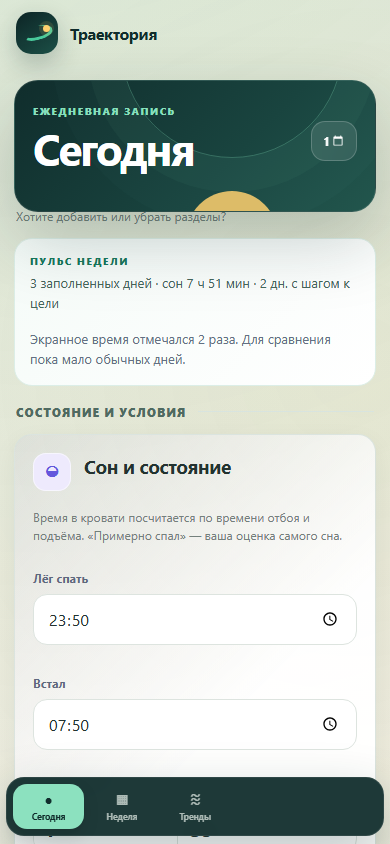
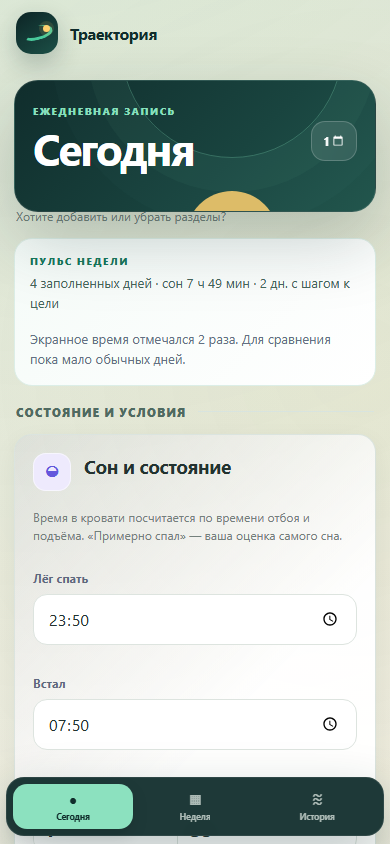
Improve public showcase and visual checks

diff --git a/e2e/showcase.e2e.ts b/e2e/showcase.e2e.ts
@@ -24,6 +24,14 @@ test('bootstraps the synthetic Today state and captures the mobile screen', asyn
   await expect(page.getByRole('heading', { name: 'Сегодня', level: 1 })).toBeVisible();
   await expect(page.getByText('Первый час без уведомлений')).toBeVisible();
   await expect(page.getByRole('button', { name: 'Сбросить демо-данные' })).toBeVisible();
+  const navigation = page.locator('.bottom-nav');
+  const lastNavigationItem = navigation.locator('.bottom-nav__item').last();
+  await expect(navigation.locator('.bottom-nav__item')).toHaveCount(3);
+  const navigationBox = await navigation.boundingBox();
+  const lastNavigationItemBox = await lastNavigationItem.boundingBox();
+  expect(navigationBox).not.toBeNull();
+  expect(lastNavigationItemBox).not.toBeNull();
+  expect(navigationBox!.x + navigationBox!.width - (lastNavigationItemBox!.x + lastNavigationItemBox!.width)).toBeLessThanOrEqual(8);
   await settleScreenshot(page);
   await page.locator('.demo-controls').evaluate((element) => ((element as HTMLElement).style.visibility = 'hidden'));
   await page.screenshot({ path: 'docs/screenshots/trajectory-today-mobile.png' });
@@ -50,8 +58,22 @@ test('navigates through Week and Trends and captures representative analytics', 
   await settleScreenshot(page);
   await page.screenshot({ path: 'docs/screenshots/trajectory-week-review.png' });
 
+  const review = page.locator('#week-review');
+  await expect(review).toBeVisible();
+  const reviewContext = review.locator('.review-context-details');
+  if ((await reviewContext.getAttribute('open')) !== null) await reviewContext.locator('summary').click();
+  await review.screenshot({
+    path: 'docs/screenshots/trajectory-week-decision.png',
+    style: '.bottom-nav { display: none !important; }',
+  });
+
+  await page.setViewportSize({ width: 1400, height: 600 });
+  await page.evaluate(() => window.scrollTo(0, 0));
+  await settleScreenshot(page);
+  await page.screenshot({ path: 'docs/screenshots/trajectory-profile-cover.png' });
+
   await page.setViewportSize({ width: 1440, height: 1050 });
-  await page.getByRole('link', { name: 'Тренды' }).click();
+  await page.getByRole('link', { name: 'История' }).click();
   await expect(page.getByRole('heading', { name: 'История изменений', level: 1 })).toBeVisible();
   await page.getByText('Показать один показатель по месяцам').click();
   await expect(page.locator('[aria-label^="Динамика:"]')).toBeVisible();

diff --git a/src/components/HowItWorksDialog.vue b/src/components/HowItWorksDialog.vue
@@ -101,8 +101,8 @@ function close() {
             <div>
               <strong>Неделя и тренды: сравнить записи</strong>
               <p>
-                Здесь видно, что повторялось, какие результаты появились и как менялись наблюдения. Приложение не называет причины — вывод
-                и следующий шаг выбираете вы.
+                Здесь видно, что повторялось, какие результаты появились и как менялись наблюдения. Приложение не называет причины — вывод и
+                следующий шаг выбираете вы.
               </p>
             </div>
           </li>

diff --git a/tests/analytics.test.ts b/tests/analytics.test.ts
@@ -52,6 +52,10 @@ describe('personal analytics semantics', () => {
       }),
     );
 
-    expect(buildObservations(entries).map((item) => item.text).join(' ')).toContain('Это связь, а не доказанная причина.');
+    expect(
+      buildObservations(entries)
+        .map((item) => item.text)
+        .join(' '),
+    ).toContain('Это связь, а не доказанная причина.');
   });
 });

diff --git a/tests/demo-bootstrap.test.ts b/tests/demo-bootstrap.test.ts
@@ -13,7 +13,10 @@ beforeEach(async () => {
   await db.delete();
   await db.open();
   setActivePinia(createPinia());
-  vi.stubGlobal('fetch', vi.fn(async () => new Response(JSON.stringify(buildDemoPayload(anchor)), { status: 200 })));
+  vi.stubGlobal(
+    'fetch',
+    vi.fn(async () => new Response(JSON.stringify(buildDemoPayload(anchor)), { status: 200 })),
+  );
 });
 
 afterAll(async () => {

diff --git a/src/App.vue b/src/App.vue
@@ -25,7 +25,7 @@ onMounted(async () => {
 const navItems = [
   { to: '/', label: 'Сегодня', icon: '●' },
   { to: '/week', label: 'Неделя', icon: '▦' },
-  { to: '/trends', label: 'Тренды', icon: '≋' },
+  { to: '/trends', label: 'История', icon: '≋' },
 ];
 </script>
 

diff --git a/src/styles/responsive-mobile.css b/src/styles/responsive-mobile.css
@@ -596,7 +596,7 @@
     bottom: max(8px, env(safe-area-inset-bottom));
     transform: none;
     display: grid;
-    grid-template-columns: repeat(5, minmax(0, 1fr));
+    grid-template-columns: repeat(3, minmax(0, 1fr));
     gap: 2px;
     padding: 6px;
     border-radius: 18px;

diff --git a/src/views/WeekView.vue b/src/views/WeekView.vue
@@ -322,7 +322,6 @@ async function saveReview() {
     reviewSaving.value = false;
   }
 }
-
 </script>
 
 <template>

diff --git a/README.md b/README.md
@@ -2,7 +2,7 @@
 
 Trajectory is a local-first reflection and personal analytics product. It helps people turn short daily observations into careful weekly and longer-term decisions without treating correlation as causation.
 
-![Trajectory weekly reflection](docs/screenshots/trajectory-week-review.png)
+![Trajectory weekly reflection](docs/screenshots/trajectory-profile-cover.png)
 
 **Vue 3 · TypeScript · Pinia · Dexie · ECharts · PWA**
 
@@ -23,7 +23,7 @@ flowchart LR
 
 - **Today:** capture sleep, energy, context, actions, life areas, and one factual note without requiring every field.
 - **Week:** combine coverage, noteworthy observations, completed outcomes, special days, and one next decision.
-- **Trends:** inspect longer-term change, monthly metrics, and equal-window comparisons around important events.
+- **History:** inspect longer-term change, monthly metrics, and equal-window comparisons around important events.
 
 ## Engineering highlights
 
@@ -50,7 +50,13 @@ The weekly view combines data coverage, cautious review cues, completed outcomes
 
 ![Trajectory weekly review with coverage and reflection cues](docs/screenshots/trajectory-week-review.png)
 
-### Trends
+### Next decision
+
+The review closes the loop by comparing the previous decision with what actually happened, then keeping one next step and an optional if-then plan.
+
+![Trajectory weekly decision and if-then plan](docs/screenshots/trajectory-week-decision.png)
+
+### History
 
 Longer-term views place observation counts and interpretation boundaries alongside calculated trends.
 
@@ -88,6 +94,7 @@ The focused suite covers domain and daily-entry behavior, analytics semantics, v
 
 ```powershell
 npm.cmd run lint
+npm.cmd run format:check
 npm.cmd test
 npm.cmd run build
 npm.cmd run test:e2e
@@ -106,4 +113,4 @@ The synthetic data asset is generated automatically before development, producti
 
 ## Public and production editions
 
-This repository contains the public, local-first edition of Trajectory. Production authentication, cloud synchronization, backend infrastructure, private data, internal documentation, and private development history are intentionally kept outside this repository.
+This repository contains an interactive public showcase of Trajectory. It presents the three core local-first scenarios — Today, Week, and History — while production authentication, cloud synchronization, the monthly review, journals, settings, backend infrastructure, private data, internal documentation, and private development history remain outside this repository.

diff --git a/docs/architecture.md b/docs/architecture.md
@@ -14,7 +14,7 @@ Dexie local persistence
 
 ## Responsibilities
 
-- `src/views` and `src/components` render Today, Week, and Trends and coordinate user interaction.
+- `src/views` and `src/components` render Today, Week, and History and coordinate user interaction.
 - `src/features/daily-entry` owns daily form behavior and validation.
 - `src/features/analytics` contains pure summaries, review cues, trend calculations, and equal-window event comparisons.
 - `src/model` defines schemas, defaults, compatibility normalization, and the distinction between missing and recorded values.
